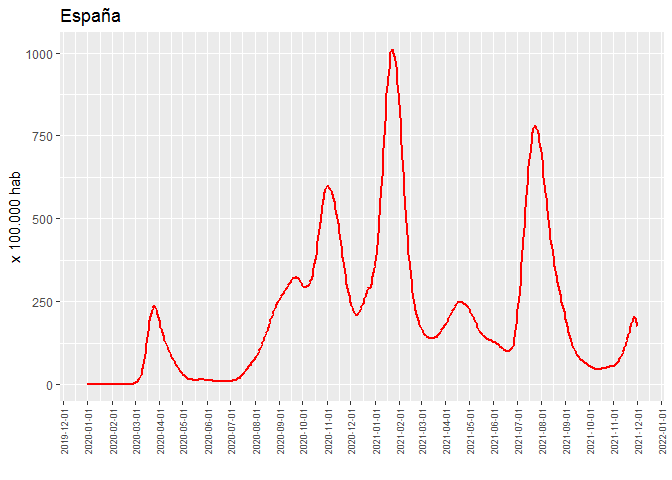
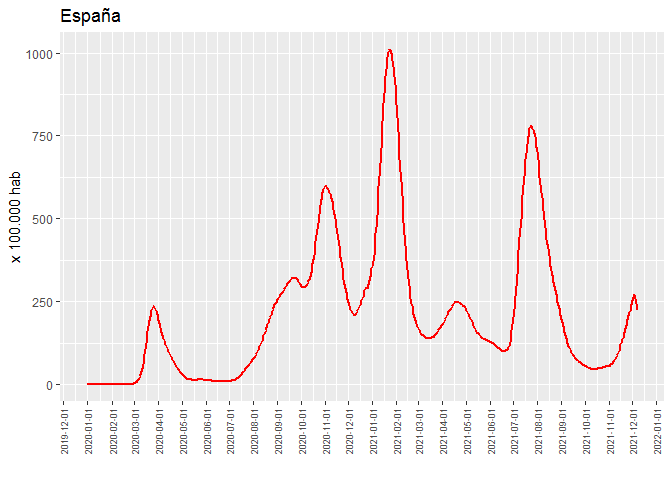
update

diff --git a/README.md b/README.md
@@ -1,7 +1,7 @@
 Covid-19: Incidencia acumulada
 ================
 JMSS \[Usal - CIC\]
-(updated: 02 dic 2021)
+(updated: 10 dic 2021)
 
 ### Incidencia acumulada del Covid19 a 14 días por cada 100.000 habitantes
 
